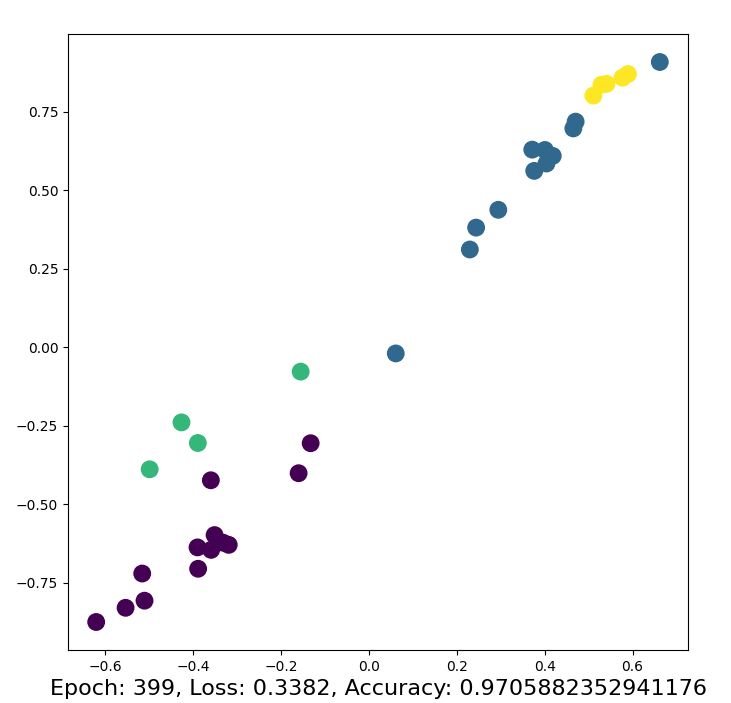
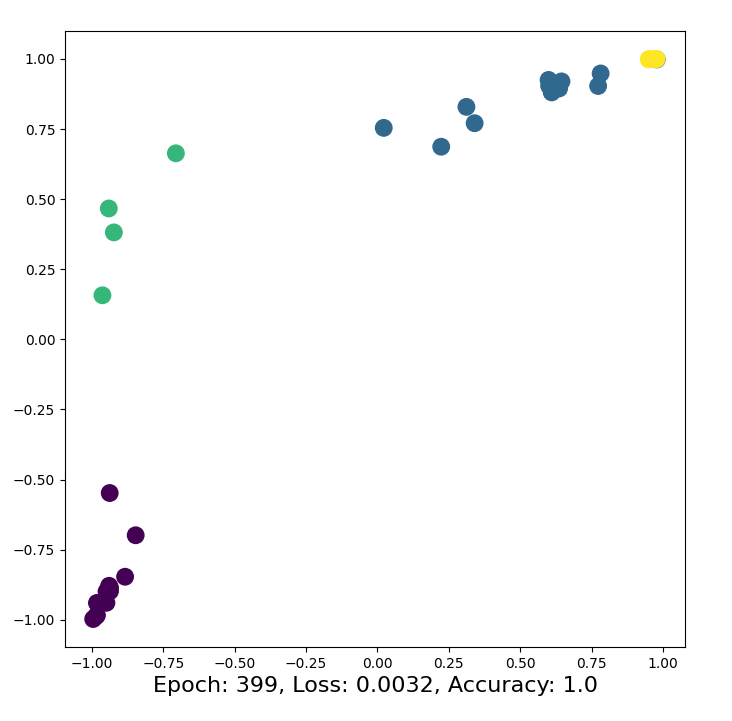
fixed learning rate

diff --git a/train_karate_club.py b/train_karate_club.py
@@ -20,7 +20,7 @@ model = simple_GCN(
 )
 
 loss_fcn = torch.nn.CrossEntropyLoss()
-optimizer = torch.optim.Adam(model.parameters(), lr=0.001)
+optimizer = torch.optim.Adam(model.parameters(), lr=0.01)
 epochs = 400
 
 
